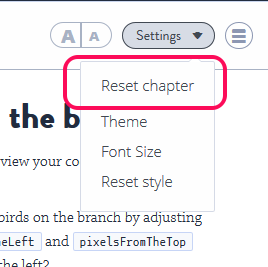
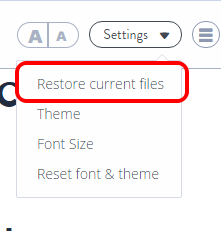
update chapters and restore current files

Changed region(s): [[0.0, 0.0606, 1.0, 0.9394], [0.0, 0.0, 1.0, 0.0303], [0.0, 0.9697, 0.19, 1.0]]

diff --git a/source/docs/tuts/author/chapter.html.md b/source/docs/tuts/author/chapter.html.md
@@ -4,10 +4,8 @@ class_name: docs
 full_width: true
 ---
 
-We strongly recommend you take advantage of this feature. Chapters serve two purposes ...
+We strongly recommend you take advantage of this feature. Chapters allow you to break the content down visually in the section list (table of contents)
 
-1. They break the content down visually in the section list (table of contents)
-1. They allow to students to reset their content to its original state if they have mangled the code through experimentation and want to restore it.
 
 ## Seeing Chapters
 You can see which Chapters are defined by opening up the table of contents. You can see that each Chapter is bold and sections within each Chapter are numbered accordingly.
@@ -18,16 +16,4 @@ You can see which Chapters are defined by opening up the table of contents. You 
 To define a chapter, you should first select a page in the editor. Next, press the Settings buttons. The Page tab should already be selected.
 
 To set this page as the start of a new chapter, enable the 'Set section as chapter' slider.
-
-## Reset Chapter
-The Reset Chapter feature is a great way for students to reset any chapter to its initial state after hacking sample code around. Students can reset the chapter from the menu as shown below.
-
-<img alt="authtoken" src="/img/docs/guides/reset.png" class="simple"/>
-
-You can specify which folder or folders should be restored when the student selects this option. All folders specified within the Reset List field are then restored from the master copy of the Unit.
-
-Currently, it is not possible for the author to use this feature as it only works when it is used by a Student within a Class. For an author to test from the viewpoint of a student, you will need to
-
-1. Create a Unit within a Module. If the Unit already exists, locate the Unit within a Module and enable the Edit Units slider. You should then click on Refresh Source.
-1. Click on the Unit you want to test. You can then select the button 'Test Unit' which will create a copy that you can run with the same access privileges as a student would see, including the ability to reset chapters.
 

diff --git a/source/docs/tuts/author/play.html.md b/source/docs/tuts/author/play.html.md
@@ -17,7 +17,19 @@ Within the player various options can be controlled by the user
 
 
 - **Navigation Buttons** allows the user to navigate forward/backward in the guide.
-- **Settings** allows the user to change the Theme (light/dyslexic), set the font size, Reset the [chapter](/docs/tuts/author/chapter/) and Reset style. See [Dyslexia Support](/docs/tuts/author/dyslexia/) section
+- **Settings** allows the user to change the Theme (light/dyslexic), set the font size, reset both the theme and fonts and to restore the current files (see below). See [Dyslexia Support](/docs/tuts/author/dyslexia/) section
+- **Units** allows the users to navigate easily to other units in the course.
 - **Increase/Decrease Font** allows the user to incrementally increase/decrease the player font size.
 - **[Show/Hide Section List Hamburger Icon](/docs/tuts/author/collapse/)** allows the user to show/hide the section list.
+
+## Restore Current Files
+The Restore Current Files feature is a great way for students to reset/restore any files on that page to its initial state after hacking sample code around. Students can restore their flies from the menu as shown below.
+
+<img alt="authtoken" src="/img/docs/guides/reset.png" class="simple"/>
+
+Currently, it is not possible for the author to use this feature as it only works when it is used by a Student within a Class. For an author to test from the viewpoint of a student, you will need to
+
+1. Create a Unit within a Module. If the Unit already exists, locate the Unit within a Module and enable the Edit Units slider. You should then click on Refresh Source.
+1. Click on the Unit you want to test. You can then select the button 'Test Unit' which will create a copy that you can run with the same access privileges as a student would see, including the ability to restore files.
+
 
